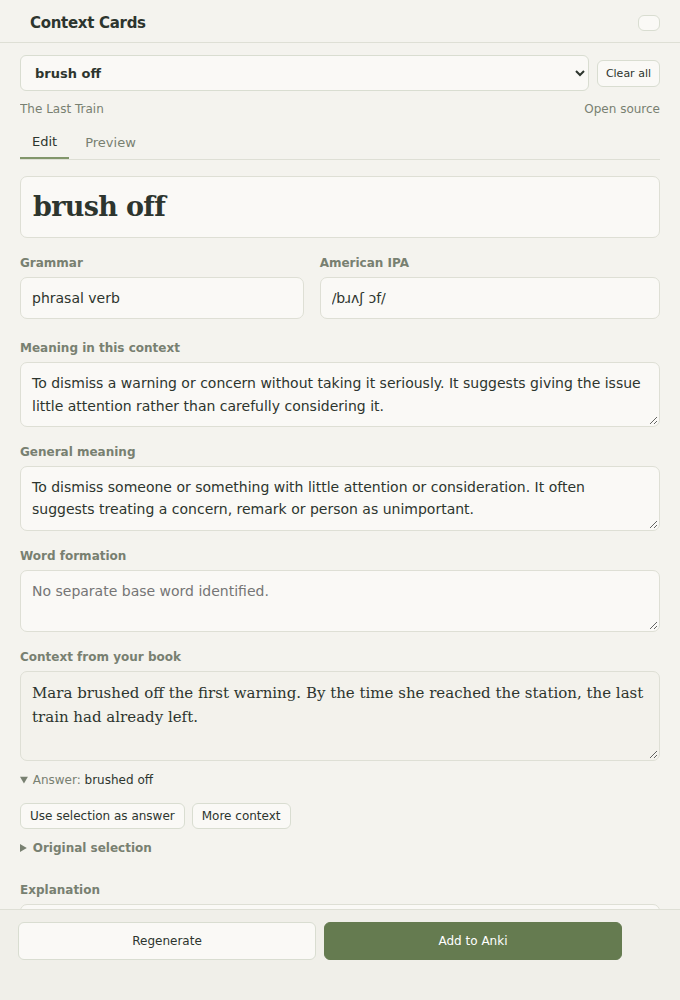
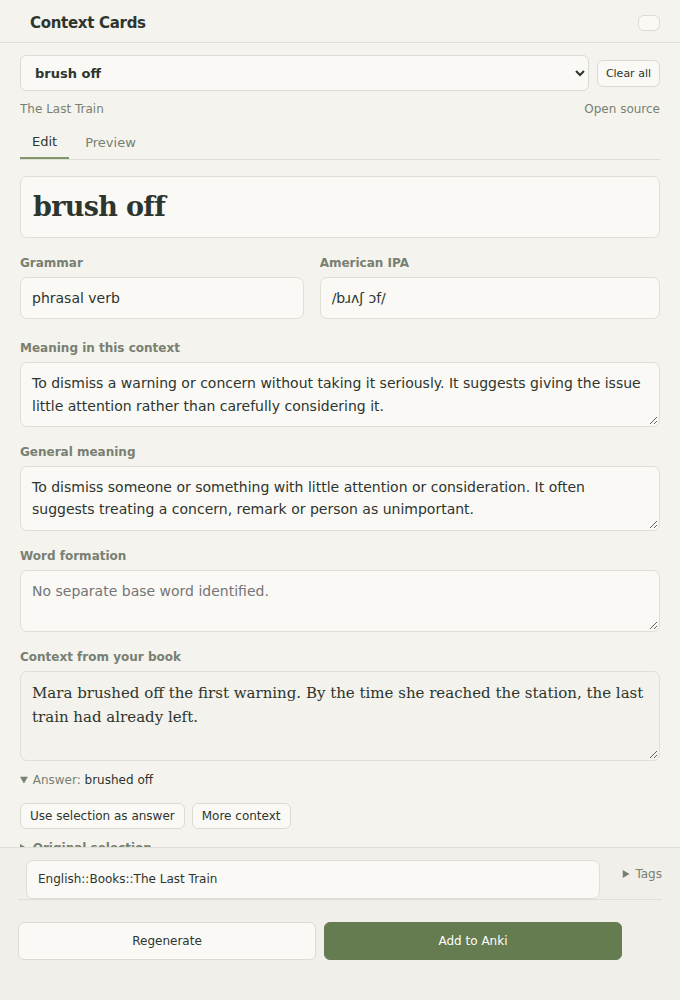
Adopt familiar panel layout with collapsible teaching sections and footer deck

Changed region(s): [[0.0309, 0.837, 0.3088, 0.899], [0.9265, 0.868, 0.9574, 0.899]]

diff --git a/src/view.ts b/src/view.ts
@@ -14,6 +14,7 @@ export class ReviewView extends ItemView {
   private previewFrame?: HTMLIFrameElement;
   private previewObserver?: ResizeObserver;
   private footer?: HTMLElement;
+  private destination?: HTMLElement;
   private warning?: HTMLElement;
   private answerChip?: HTMLElement;
   private sections = new Map<string, boolean>();
@@ -115,6 +116,7 @@ export class ReviewView extends ItemView {
         : undefined;
     const scrollTop = root.scrollTop;
     this.answerChip = undefined;
+    this.destination = undefined;
     root.empty();
     root.addClass('cc-panel');
     root.lang = 'en';
@@ -381,8 +383,10 @@ export class ReviewView extends ItemView {
     original.addClass('cc-original');
     original.createEl('blockquote', { text: draft.capture.selected });
     original.createDiv({ cls: 'cc-muted', text: draft.capture.file });
+    const explanationSection = this.section(body, 'explanation', 'Explanation & usage notes');
+    explanationSection.addClass('cc-teaching-section');
     this.field(
-      body,
+      explanationSection,
       'Explanation',
       draft.explanation,
       (v) =>
@@ -391,8 +395,27 @@ export class ReviewView extends ItemView {
         }),
       { multiline: true, rows: 2 },
     );
-    const examples = body.createDiv({ cls: 'cc-examples' });
-    examples.createEl('h3', { text: 'Examples' });
+    this.field(
+      explanationSection,
+      'Usage notes',
+      draft.notes.join('\n'),
+      (v) =>
+        update(() => {
+          draft.notes = v.split('\n').filter((s) => s.trim());
+        }),
+      { multiline: true, rows: 2 },
+    );
+    const exampleCount = draft.examples.filter((v) => v.trim()).length;
+    const groupCount = draft.exampleGroups?.length;
+    const examples = this.section(
+      body,
+      'examples',
+      exampleCount
+        ? `Examples · ${groupCount ? `${groupCount} ${groupCount === 1 ? 'usage' : 'usages'} · ` : ''}${exampleCount} examples`
+        : 'Examples',
+    );
+    examples.addClass('cc-examples');
+    examples.addClass('cc-teaching-section');
     if (draft.exampleGroups?.length) {
       draft.exampleGroups.forEach((group, gi) => {
         const container = examples.createDiv({ cls: 'cc-example-group' });
@@ -436,34 +459,23 @@ export class ReviewView extends ItemView {
         row.querySelector('label')?.addClass('cc-sr-only');
       }
     }
-    this.field(
-      body,
-      'Usage notes',
-      draft.notes.join('\n'),
-      (v) =>
-        update(() => {
-          draft.notes = v.split('\n').filter((s) => s.trim());
-        }),
-      { multiline: true, rows: 2 },
-    );
-    const technical = this.section(body, 'anki', 'Anki destination');
-    technical.addClass('cc-technical');
-    technical.querySelector('summary')!.createSpan({
-      cls: 'cc-deck-summary',
-      text: draft.deck.split('::').at(-1) ?? '',
-      attr: { title: draft.deck },
-    });
-    if (!draft.deck.trim()) technical.open = true;
-    const deck = this.field(technical, 'Deck', draft.deck, (v) => {
+    const destination = body.createDiv({ cls: 'cc-destination' });
+    this.destination = destination;
+    const deckRow = destination.createDiv({ cls: 'cc-deck-row' });
+    const icon = deckRow.createSpan({ cls: 'cc-deck-icon' });
+    setIcon(icon, 'layers');
+    icon.setAttribute('aria-hidden', 'true');
+    const deck = this.field(deckRow, 'Deck', draft.deck, (v) =>
       update(() => {
         draft.deck = v;
-      });
-      const summary = technical.querySelector('.cc-deck-summary');
-      if (summary) {
-        summary.textContent = v.split('::').at(-1) ?? '';
-        summary.setAttribute('title', v);
-      }
-    });
+      }),
+    );
+    deck.parentElement!.querySelector('label')?.addClass('cc-sr-only');
+    deck.setAttribute('placeholder', 'Choose an Anki deck');
+    deck.setAttribute('title', draft.deck);
+    const technical = this.section(destination, 'anki', 'Tags');
+    technical.addClass('cc-technical');
+    technical.addClass('cc-destination-tools');
     const listId = `cc-decks-${crypto.randomUUID()}`;
     deck.setAttribute('list', listId);
     const options = technical.createEl('datalist', { attr: { id: listId } });
@@ -495,6 +507,8 @@ export class ReviewView extends ItemView {
     }
     metadata.hidden = !f.grammar && f.ipa === 'off';
     examples.hidden = !f.examples;
+    if (!f.explanationSentences)
+      explanationSection.querySelector('summary')!.textContent = 'Usage notes';
     tools.hidden = !f.context;
     for (const button of Array.from(body.querySelectorAll('button')))
       if (button.textContent === 'Find base word') button.hidden = !f.wordFormation;
@@ -581,8 +595,15 @@ export class ReviewView extends ItemView {
       this.warning.toggleClass('is-visible', !!draft.error || draft.status !== 'ready');
     }
     if (!this.footer) return;
-    this.footer.empty();
-    if (draft.phase === 'saved' || this.tab === 'preview') return;
+    if (draft.phase === 'saved' || this.tab === 'preview') {
+      this.footer.empty();
+      return;
+    }
+    // Keep destination inputs mounted while footer validation/actions refresh on each keystroke.
+    for (const child of Array.from(this.footer.children))
+      if (child !== this.destination) child.remove();
+    if (this.destination && this.destination.parentElement !== this.footer)
+      this.footer.appendChild(this.destination);
     if (draft.duplicates?.length) {
       const duplicate = this.footer.createDiv({ cls: 'cc-duplicate' });
       duplicate.createDiv({ text: 'This expression is already in Anki.' });

diff --git a/tests/ui/review.spec.ts b/tests/ui/review.spec.ts
@@ -2,6 +2,8 @@ import { test, expect } from '@playwright/test';
 test('compact sections retain all fields and context editing actions', async ({ page }) => {
   await page.setViewportSize({ width: 340, height: 850 });
   await page.goto('/');
+  await page.locator('[data-cc-section=explanation] > summary').click();
+  await page.locator('[data-cc-section=examples] > summary').click();
   for (const name of [
     'Grammar',
     'American IPA',
@@ -10,7 +12,7 @@ test('compact sections retain all fields and context editing actions', async ({ 
     'Usage notes',
   ])
     await expect(page.getByLabel(name, { exact: true })).toBeVisible();
-  await expect(page.getByLabel('Deck', { exact: true })).toBeHidden();
+  await expect(page.getByLabel('Deck', { exact: true })).toBeVisible();
   await page.locator('.cc-technical > summary').click();
   await page.getByLabel('Deck', { exact: true }).fill('English::Books::Shared');
   await page.getByLabel('Tags', { exact: true }).fill('reading');
@@ -48,6 +50,7 @@ test('review, edit and both expandable hints work in a real browser', async ({ p
   page.on('pageerror', (e) => errors.push(e.message));
   await page.goto('/');
   await expect(page.getByLabel('Word or expression', { exact: true })).toHaveValue('brush off');
+  await page.locator('[data-cc-section=explanation] > summary').click();
   await page.getByLabel('Explanation', { exact: true }).fill('Mara dismissed the warning.');
   await page.getByRole('button', { name: 'Preview cards', exact: true }).click();
   const card = page.frameLocator('iframe');
@@ -79,6 +82,7 @@ test('regeneration preserves edits until accepted, including in a narrow sidebar
 }) => {
   await page.setViewportSize({ width: 390, height: 844 });
   await page.goto('/');
+  await page.locator('[data-cc-section=explanation] > summary').click();
   await page.getByLabel('Explanation', { exact: true }).fill('My own explanation.');
   await page.getByRole('button', { name: 'Regenerate', exact: true }).click();
   await expect(page.getByLabel('Explanation', { exact: true })).toHaveValue('My own explanation.');
@@ -108,6 +112,7 @@ test('grouped examples stay editable and appear on the card back', async ({ page
     ];
     view.render();
   });
+  await page.locator('[data-cc-section=examples] > summary').click();
   await page.getByLabel('Meaning / usage 2', { exact: true }).fill('Remove dust or dirt');
   await page.getByLabel('Usage 2, example 1', { exact: true }).fill('She brushed off the dirt.');
   await expect(page.getByLabel('Meaning / usage 2', { exact: true })).toHaveValue(

diff --git a/tests/view.test.ts b/tests/view.test.ts
@@ -68,6 +68,28 @@ function setup() {
   return { draft, plugin, view, click, field };
 }
 describe('editable review panel', () => {
+  it('keeps the deck visible in the footer and preserves typing focus', () => {
+    const { view, field } = setup();
+    const explanation = view.contentEl.querySelector<HTMLDetailsElement>(
+      '[data-cc-section=explanation]',
+    )!;
+    const examples = view.contentEl.querySelector<HTMLDetailsElement>(
+      '[data-cc-section=examples]',
+    )!;
+    expect(explanation.open).toBe(false);
+    expect(examples.open).toBe(false);
+    expect(
+      explanation.compareDocumentPosition(examples) & Node.DOCUMENT_POSITION_FOLLOWING,
+    ).toBeTruthy();
+    const deck = field('Deck');
+    expect(view.contentEl.querySelector('.cc-footer')!.contains(deck)).toBe(true);
+    deck.focus();
+    deck.value = 'English::Books::New';
+    deck.setSelectionRange(10, 10);
+    deck.dispatchEvent(new Event('input'));
+    expect(document.activeElement).toBe(deck);
+    expect(deck.selectionStart).toBe(10);
+  });
   it('edits grouped examples and renders safe headings in the Anki preview', () => {
     const { draft, view, field } = setup();
     draft.exampleGroups = [

diff --git a/styles.css b/styles.css
@@ -581,3 +581,63 @@
 .cc-panel [hidden] {
   display: none !important;
 }
+
+.cc-teaching-section {
+  margin: 18px 0;
+}
+.cc-teaching-section > summary {
+  color: var(--text-muted);
+  font-size: 13px;
+  padding: 4px 0;
+}
+.cc-teaching-section[open] > summary {
+  margin-bottom: 12px;
+  color: var(--text-normal);
+}
+.cc-destination {
+  position: relative;
+  margin-bottom: 10px;
+  min-width: 0;
+}
+.cc-deck-row {
+  display: flex;
+  align-items: center;
+  gap: 8px;
+  padding-right: 62px;
+  min-width: 0;
+}
+.cc-deck-icon {
+  display: flex;
+  color: var(--text-muted);
+  flex: 0 0 auto;
+}
+.cc-deck-icon svg {
+  width: 16px;
+  height: 16px;
+}
+.cc-deck-row .cc-field {
+  flex: 1;
+  min-width: 0;
+  margin: 0;
+}
+.cc-deck-row input {
+  width: 100%;
+  min-width: 0;
+  font-size: 12px;
+}
+.cc-destination-tools {
+  margin: 0;
+}
+.cc-destination-tools > summary {
+  position: absolute;
+  top: 7px;
+  right: 0;
+  margin: 0;
+  font-size: 12px;
+}
+.cc-destination-tools[open] {
+  padding-top: 12px;
+}
+.cc-destination-tools .cc-field {
+  margin-bottom: 10px;
+}

diff --git a/docs/SETUP.md b/docs/SETUP.md
@@ -153,15 +153,17 @@ All teaching fields are in English and can be edited. Fields disabled in setting
 
 If the answer is wrong, expand **Answer**, highlight the correct text inside the context field, then click **Use selection as answer**. It changes the expected answer to your selection. **More context** expands the passage from the captured source snapshot. You can also edit the context manually and regenerate for the updated passage.
 
-### Example groups, destination and actions
+### Explanation, examples, destination and actions
+
+**Explanation & usage notes** appears above **Examples**. Both sections are collapsed initially; click their headings to expand and edit the fields. Their expanded state is kept when the panel redraws.
 
 ![Editable example groups and export buttons](images/examples-deck.png)
 
 Edit each **Meaning / usage** heading and its examples. The model selects the number of groups within your configured limit; different topics alone do not necessarily represent different meanings.
 
-![Expanded Anki destination with Deck, Tags and Refresh decks](images/destination.png)
+![Footer destination with Deck and expanded Tags controls](images/destination.png)
 
-Expand **Anki destination** to choose **Deck** and **Tags**. **Refresh decks** reloads the available deck names from Anki. After renaming a deck, select its new name yourself: the current destination is not remapped automatically.
+Choose **Deck** in the footer above the action buttons. Expand **Tags** to edit tags or access **Refresh decks**. **Refresh decks** reloads the available deck names from Anki. After renaming a deck, select its new name yourself: the current destination is not remapped automatically.
 
 - **Generate draft / Regenerate:** generate teaching content. For a proposed replacement, choose **Apply new version** or **Keep my draft** to retain your current edits.
 - **Add to Anki:** export the approved note. Required enabled fields and a valid source answer must be present.
